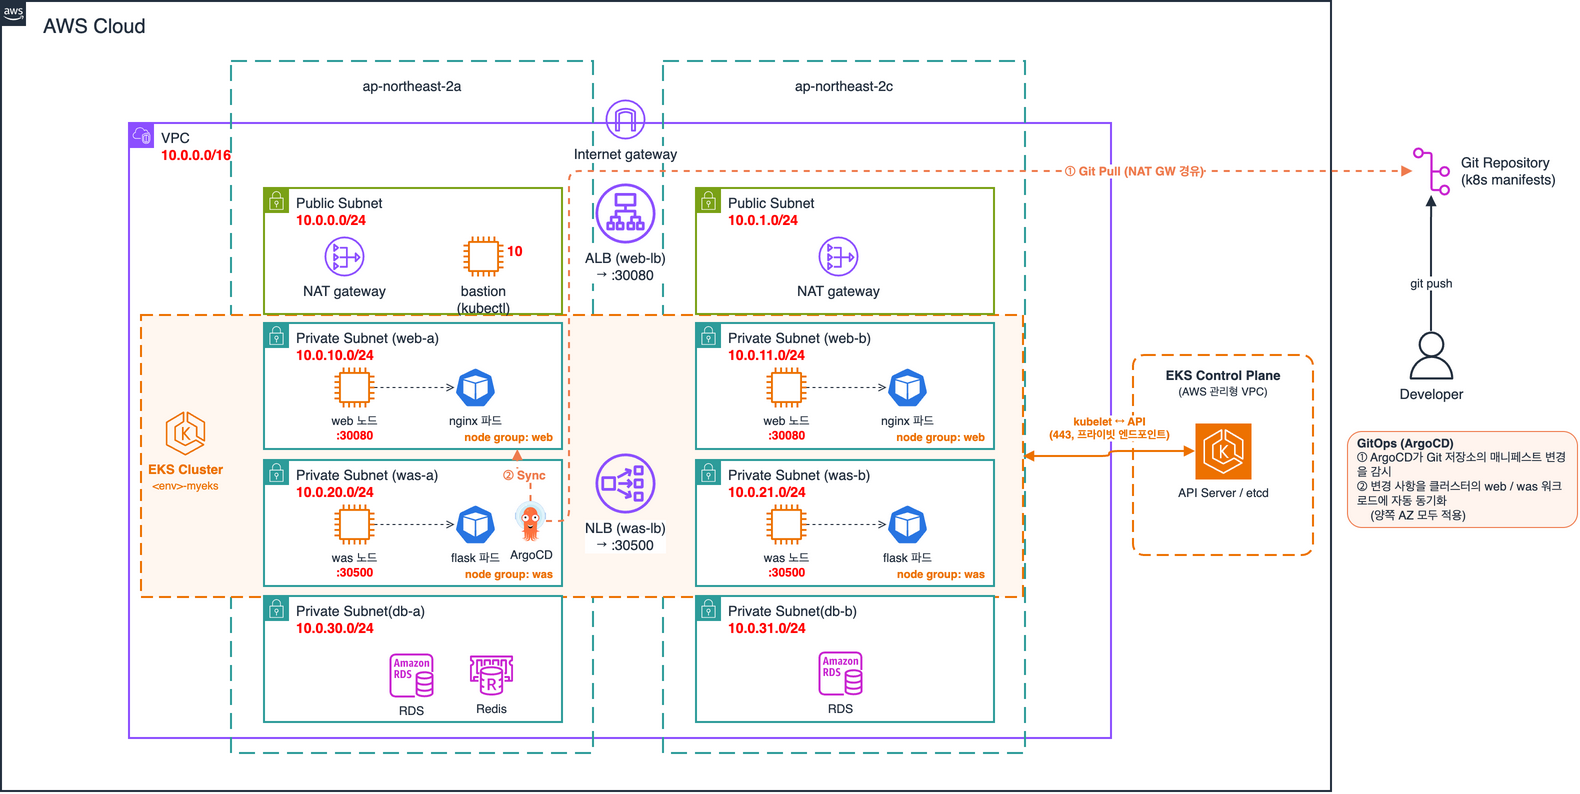
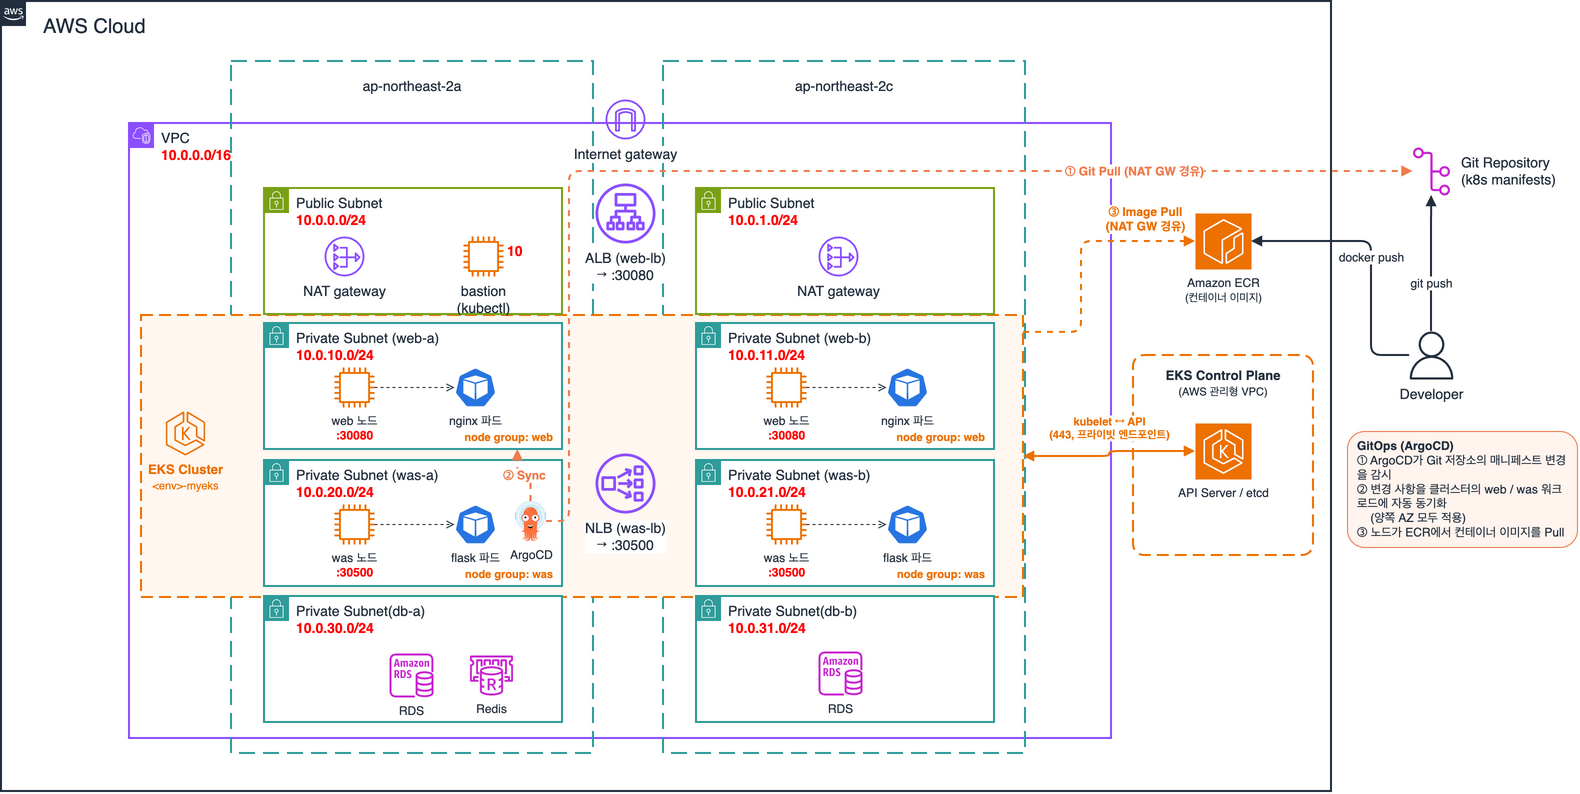
v1.0.4 1. ECR(컨테이너 이미지 저장소) 추가

diff --git a/ch05/5.6/README.md b/ch05/5.6/README.md
@@ -1,12 +1,12 @@
 # 5.6 AWS EKS + Argo CD 기반 3계층(Web-WAS-DB) 구성
 
-5.4(EC2 기반)와 같은 요청 흐름을 유지하면서 web·was 서버를 **Amazon EKS 관리형 노드 그룹**으로 바꾸고, 애플리케이션 배포는 **Argo CD(GitOps)** 로 한다. 테라폼은 인프라와 Argo CD까지만 만들고, web·was 앱은 Git 저장소의 매니페스트(`gitops/`)를 Argo CD가 클러스터에 동기화한다.
+5.4(EC2 기반)와 같은 요청 흐름을 유지하면서 web·was 서버를 **Amazon EKS 관리형 노드 그룹**으로 바꾸고, 애플리케이션 배포는 **Argo CD(GitOps)** 로 한다. 테라폼은 인프라와 Argo CD까지만 만들고, web·was 앱은 Git 저장소의 매니페스트(`gitops/`)를 Argo CD가 클러스터에 동기화한다. web·was 컨테이너 이미지는 **Amazon ECR**(`<env>-web`, `<env>-was`)에 두고 노드가 ECR에서 내려받는다.
 
 같은 코드를 **dev, stg, prod 환경별로** 배포할 수 있다. 환경마다 State를 워크스페이스로 따로 두고, 계정 안에서 고유해야 하는 이름에 `<env>-` 접두사를 붙인다([환경 구분](#환경-구분-dev--stg--prod) 참고). 별도의 사전 인프라(State 버킷, 배포 사용자·역할) 없이 AWS 자격 증명만 있으면 실행할 수 있다.
 
 ![EKS + Argo CD 구성도](images/architecture-eks-argocd.png)
 
-그림 5-6. 실습 구성도 (EKS 클러스터: web·was 노드 그룹, Argo CD가 Git 저장소의 매니페스트를 web·was에 동기화)
+그림 5-6. 실습 구성도 (EKS 클러스터: web·was 노드 그룹, Argo CD가 Git 저장소의 매니페스트를 web·was에 동기화, 노드는 Amazon ECR에서 컨테이너 이미지를 내려받음)
 
 요청 흐름은 다음과 같다. 5.4와 달라진 부분은 서버가 노드 그룹이 되고 대상 그룹이 노드의 NodePort로 보낸다는 점뿐이다.
 
@@ -17,13 +17,13 @@
 ALB web-lb (인터넷 경계, public-subnet-a/b) ── web-tg (HTTP:30080, /healthz)
    │
    ▼
-web 노드 그룹 (web-subnet-a/b, web-sg) :30080 → web(nginx) 파드 2개  NGINX :80 → was.cloud.local:5000
+web 노드 그룹 (web-subnet-a/b, web-sg) :30080 → web(nginx) 파드 2개 (이미지: ECR <env>-web)  NGINX :80 → was.cloud.local:5000
    │
    ▼
 NLB was-lb (내부, was-subnet-a/b, TCP:5000) ── was-tg (TCP:30500)
    │
    ▼
-was 노드 그룹 (was-subnet-a/b, was-sg) :30500 → was(flask) 파드 2개  Flask :5000
+was 노드 그룹 (was-subnet-a/b, was-sg) :30500 → was(flask) 파드 2개 (이미지: ECR <env>-was)  Flask :5000
    ├──▶ db.cloud.local     → RDS MySQL :3306 (db-subnet-a 기본 / db-subnet-b 대기)
    └──▶ redis.cloud.local  → ElastiCache Redis OSS :6379 (db-subnet-a, TLS)
 ```
@@ -36,6 +36,11 @@ Developer ─git push─▶ Git Repository (gitops/: web·was 매니페스트)
                             │ ① Git Pull (was 노드 → NAT 게이트웨이 → IGW)
 Argo CD (argocd 네임스페이스, was-subnet-a의 was 노드)
    └─ ② Sync (자동, prune·selfHeal) ─▶ web·was Deployment / Service (양쪽 AZ)
+
+Developer ─docker push─▶ Amazon ECR <env>-web, <env>-was (리전 서비스, VPC 밖)   scripts/push-images.sh
+                            ▲
+                            │ ③ Image Pull (web·was 노드 → NAT 게이트웨이 → IGW)
+web·was 노드 (kubelet) ─────┘   노드 IAM 역할의 AmazonEC2ContainerRegistryReadOnly로 인증
 
 노드 kubelet ─443─▶ EKS API 프라이빗 엔드포인트 (컨트롤 플레인은 AWS 관리형 VPC)
 내 PC ─SSH─▶ bastion 10.0.0.10 (public-subnet-a) ─kubectl─▶ EKS API (프라이빗 엔드포인트)
@@ -60,12 +65,15 @@ Argo CD (argocd 네임스페이스, was-subnet-a의 was 노드)
 | ArgoCD (was-a) | Helm 차트 `argo-cd`. 모든 파드를 `tier=was` + AZ a 노드에 배치. dex·notifications 끔 | argocd.tf |
 | ① Git Pull (NAT GW 경유) | 노드의 기존 경로(프라이빗 서브넷 → NAT → IGW). 보안 그룹·라우팅 추가 없음 | - |
 | ② Sync | Helm 차트 `argocd-apps`로 Application `web-was` 생성. 자동 동기화(`prune`, `selfHeal`) | argocd.tf |
+| Amazon ECR | 리포지토리 `<env>-web`, `<env>-was` (태그 변경 불가, push 시 스캔, 수명 주기 정책). 첫 apply 때 이미지 빌드·push | ecr.tf, app/, scripts/push-images.sh |
+| docker push | app/<앱>/Dockerfile을 linux/amd64로 빌드해 push. 태그는 gitops/<앱>.yaml의 `image: <앱>:<태그>` | scripts/push-images.sh |
+| ③ Image Pull (NAT GW 경유) | 노드 역할의 `AmazonEC2ContainerRegistryReadOnly`로 인증(`imagePullSecrets` 불필요). Application이 kustomize `images`로 이름 `web`·`was`를 ECR 주소로 바꾼다 | iam.tf, argocd.tf |
 | Git Repository (k8s manifests) | nginx·flask Deployment / Service, NGINX 설정(kustomize) | gitops/ |
 | - | DB·사용자·테이블 생성 Job `db-init` (암호를 Git에 올리지 않도록 테라폼이 관리) | db_init.tf |
 
 테라폼과 Argo CD는 같은 리소스를 함께 관리하지 않는다.
 
-- **테라폼**: 인프라 + Argo CD 설치·Application + Secret·Job `db-init`
+- **테라폼**: 인프라(ECR 포함) + Argo CD 설치·Application + Secret·Job `db-init` + 첫 이미지 push
 - **Argo CD**: web·was Deployment / Service, ConfigMap `web-nginx-<해시>` (gitops/)
 
 설계 메모
@@ -75,6 +83,10 @@ Argo CD (argocd 네임스페이스, was-subnet-a의 was 노드)
 - **노드에 계층 보안 그룹을 붙인다.** 시작 템플릿으로 노드에 `[클러스터 보안 그룹, web-sg | was-sg]`를 지정한다. VPC CNI는 파드 IP를 노드 ENI에 할당하므로 was 파드의 트래픽도 was-sg로 식별되어 mysql-sg·redis-sg 규칙(소스 was-sg, bastion-sg)이 5.4와 똑같이 적용된다.
 - **파드도 `*.cloud.local`을 그대로 쓴다.** CoreDNS가 VPC DNS로 전달하므로 Route 53 프라이빗 호스팅 영역이 조회된다. 학습자료의 Flask 앱(mywas2)과 NGINX 설정을 고치지 않고 사용한다.
 - 노드 IP는 서브넷에서 자동 할당된다(5.4의 고정 IP `.10`은 노드 그룹에서 지정할 수 없다).
+- **컨테이너 이미지는 ECR에 둔다.** was 이미지(app/was/Dockerfile)에 Flask 패키지와 앱 소스(mywas2, 커밋 고정)를 미리 넣어 두었다. 예전처럼 파드가 뜰 때마다 pip install·git clone을 하지 않으므로 바로 시작한다. web 이미지는 `nginx:1.28` 그대로이고, NGINX 설정은 ConfigMap(gitops/default.conf)으로 넣는다.
+- **ECR 주소는 Git에 적지 않는다.** 주소(`<계정 ID>.dkr.ecr.<리전>.amazonaws.com/<env>-web`)는 계정·환경마다 다르다. gitops/에는 `image: web:1.0.0`처럼 이름과 태그만 적고, Application의 kustomize `images`가 이름을 ECR 주소로 바꾼다. 태그는 Git 값이 그대로 쓰이므로 배포는 여전히 GitOps(태그 변경 → push)로 한다.
+- **태그는 바꿀 수 없다(IMMUTABLE).** 같은 태그로 다른 이미지를 덮어쓰면 Argo CD가 변경을 알 수 없으므로 막아 둔다. 앱을 바꾸면 반드시 태그를 올린다.
+- 이미지 Pull은 NAT 게이트웨이를 거친다. 트래픽이 많으면 ECR VPC 엔드포인트(`ecr.api`, `ecr.dkr`, S3 게이트웨이)를 두어 NAT 비용을 줄일 수 있다.
 
 ## 환경 구분 (dev · stg · prod)
 
@@ -97,6 +109,7 @@ Argo CD (argocd 네임스페이스, was-subnet-a의 was 노드)
 | RDS (서브넷 그룹·식별자) | `dev-mysql` |
 | ElastiCache (서브넷 그룹·복제 그룹) | `dev-redis` |
 | 로드 밸런서·대상 그룹 | `dev-web-lb`, `dev-web-tg`, `dev-was-lb`, `dev-was-tg` |
+| ECR 리포지토리 | `dev-web`, `dev-was` |
 
 VPC(`mynet`), 서브넷, 보안 그룹, Route 53 프라이빗 영역(`cloud.local`), 쿠버네티스 리소스는 환경마다 별도 VPC·클러스터에 생기므로 이름을 바꾸지 않았다. 콘솔에서는 `Environment` 태그로 구분한다. 서브넷 CIDR(10.0.0.0/16)과 bastion IP(10.0.0.10)도 환경마다 같다(VPC 간 연결이 없으므로 겹쳐도 된다).
 
@@ -104,7 +117,8 @@ VPC(`mynet`), 서브넷, 보안 그룹, Route 53 프라이빗 영역(`cloud.loca
 
 사전 준비
 
-- AWS CLI 자격 증명: VPC·EKS·IAM·RDS·ElastiCache·ELB·Route 53을 만들 수 있는 권한(예: 관리자). 실습 PC에 aws CLI가 있어야 한다(helm·kubernetes 프로바이더가 `aws eks get-token`으로 인증).
+- AWS CLI 자격 증명: VPC·EKS·IAM·RDS·ElastiCache·ELB·Route 53·ECR을 만들 수 있는 권한(예: 관리자). 실습 PC에 aws CLI가 있어야 한다(helm·kubernetes 프로바이더가 `aws eks get-token`으로 인증).
+- **Docker**(buildx 포함)가 실행 중이어야 한다. `terraform apply`가 web·was 이미지를 빌드해 ECR에 push한다. Apple Silicon Mac에서도 노드에 맞게 linux/amd64로 빌드한다(was 이미지 첫 빌드는 에뮬레이션 때문에 몇 분 걸린다).
 - 키 페어 `mykey`(5.4.2 참고). 실습 PC에 kubectl은 없어도 된다(확인용으로만 사용).
 - **gitops/ 디렉터리를 Git 저장소에 push**해 둔다. Argo CD는 `gitops_repo_url`(기본값 `https://github.com/kshelp/tf.git`)의 `gitops_repo_revision`(`main`) 브랜치, `gitops_repo_path`(`ch05/5.6/gitops`)를 읽는다. 다른 저장소를 쓰면 `terraform.tfvars`에 지정한다. 공개 저장소가 아니면 [주의할 점](#gitops-주의할-점)을 참고한다.
 
@@ -117,7 +131,7 @@ export TF_VAR_env=dev                           # dev | stg | prod (생략하면
 terraform init
 terraform workspace select -or-create $TF_VAR_env   # 환경별 State 분리 (한 환경만 쓰면 생략 가능)
 terraform plan
-terraform apply -auto-approve                   # 약 20~25분 (EKS 클러스터 ~10분, 노드 그룹, RDS)
+terraform apply -auto-approve                   # 약 20~25분 (EKS 클러스터 ~10분, 노드 그룹, RDS, 이미지 빌드·push)
 terraform output
 ```
 
@@ -129,7 +143,7 @@ terraform output
 
 > `admin_cidr`는 bastion SSH와 **EKS API 퍼블릭 엔드포인트** 모두에 적용된다. 테라폼(kubernetes·helm 프로바이더)이 실습 PC에서 클러스터에 접속해 Argo CD와 db-init을 만들므로, 실습 PC의 공인 IP가 바뀌면 `admin_cidr`도 바꿔야 한다.
 
-테라폼은 Job `db-init`이 완료되고 Argo CD 파드가 Ready가 된 뒤 Application을 만든다. web·was 파드는 그 뒤 Argo CD가 배포하므로 `apply`가 끝나고 몇 분(was 파드의 패키지 설치 1~2분 포함) 지나면 서비스가 동작한다.
+테라폼은 Job `db-init`이 완료되고 Argo CD 파드가 Ready가 된 뒤 Application을 만든다. web·was 파드는 그 뒤 Argo CD가 배포하므로 `apply`가 끝나고 1~2분 지나면 서비스가 동작한다. 테라폼은 ECR에 이미지를 push한 뒤에 Application을 만든다.
 
 ## 확인
 
@@ -150,7 +164,12 @@ kubectl version --client
 $(terraform output -raw kubeconfig_command)
 kubectl get nodes -L tier,topology.kubernetes.io/zone
 kubectl get pods -o wide
+kubectl get deploy web was -o jsonpath='{range .items[*]}{.spec.template.spec.containers[0].image}{"\n"}{end}'   # ECR 이미지
 kubectl logs job/db-init
+
+# 5) ECR
+terraform output app_images
+aws ecr describe-images --repository-name ${TF_VAR_env:-dev}-was --query 'imageDetails[].[imageTags[0],imagePushedAt]' --output table
 
 # 4) Argo CD
 kubectl -n argocd get pods -o wide                  # was-subnet-a(AZ a)의 was 노드에 배치
@@ -181,7 +200,7 @@ curl -s $(terraform output -raw web_url)/healthz      # OK
 
 ## 앱 변경 (GitOps)
 
-앱(이미지, 레플리카 수, NGINX 설정, WAS 소스 커밋 등)은 `terraform apply` 없이 **gitops/를 고쳐 push**하면 바뀐다. Argo CD가 최대 `argocd_reconciliation_seconds`(120초) 안에 변경을 감지해 반영한다.
+앱(이미지 태그, 레플리카 수, NGINX 설정 등)은 `terraform apply` 없이 **gitops/를 고쳐 push**하면 바뀐다. Argo CD가 최대 `argocd_reconciliation_seconds`(120초) 안에 변경을 감지해 반영한다.
 
 ```bash
 # 예: web 파드를 3개로
@@ -191,15 +210,29 @@ kubectl -n argocd get application -w               # OutOfSync → Synced
 kubectl get pods -l app=web -o wide
 ```
 
+이미지를 바꿀 때(예: WAS 소스 커밋 변경)는 **ECR에 새 태그로 push한 뒤 gitops/의 태그를 바꿔 push**한다. 태그를 먼저 push하면 이미지가 아직 없어 파드가 `ImagePullBackOff`가 된다(새 파드만 실패하고 기존 파드는 그대로 동작).
+
+```bash
+# 예: was 앱 소스를 다른 커밋으로
+sed -i '' 's/^ARG APP_COMMIT=.*/ARG APP_COMMIT=<새 커밋>/' app/was/Dockerfile
+sed -i '' 's/image: was:1.0.0/image: was:1.0.1/' gitops/was.yaml
+TF_VAR_env=dev scripts/push-images.sh was      # 빌드 → ECR <env>-was:1.0.1 push
+git add app gitops && git commit -m "was 1.0.1" && git push
+kubectl get pods -l app=was -w                 # 롤링 업데이트
+```
+
+같은 gitops/를 여러 환경이 함께 보므로 태그를 올리기 전에 **모든 환경의 ECR에 push**한다(`TF_VAR_env=stg scripts/push-images.sh was` 등). `terraform apply`를 다시 해도 태그가 바뀐 것을 감지해 그 환경의 ECR에 push한다.
+
 `kubectl scale deploy web --replicas=1`처럼 클러스터를 직접 바꾸면 `selfHeal`이 Git 상태로 되돌린다. gitops/에서 리소스를 지우면 `prune`이 클러스터에서도 지운다.
 
 ### GitOps 주의할 점
 
 - **먼저 push**: Application은 Git 저장소를 읽으므로 gitops/가 `gitops_repo_revision` 브랜치에 없으면 동기화가 실패한다(`kubectl -n argocd describe application web-was`로 확인).
+- **이미지 이름**: gitops/의 `image: web:<태그>`, `image: was:<태그>`에서 이름 부분(web, was)은 Application이 ECR 주소로 바꾸므로 그대로 둔다. `push-images.sh`와 ecr.tf도 이 줄에서 태그를 읽는다.
 - **NodePort**: gitops/의 nodePort 값은 Application이 테라폼 변수 값으로 덮어쓴다. 포트를 바꾸려면 gitops/가 아니라 `web_node_port`·`was_node_port` 변수를 바꾸고 `terraform apply` 한다.
 - **비공개 저장소**: Argo CD에 저장소 자격 증명(Secret, 레이블 `argocd.argoproj.io/secret-type=repository`)을 추가로 등록해야 한다.
 - **apply 완료 시점**: 테라폼은 Application 생성까지만 기다린다. web·was 파드가 Ready가 되는지는 `kubectl -n argocd get application`으로 확인한다.
-- **삭제**: Application에 finalizer를 두지 않아 `terraform destroy`가 Argo CD 때문에 멈추지 않는다. Argo CD가 만든 리소스는 클러스터와 함께 삭제되고 AWS 리소스를 만들지 않으므로 남는 것이 없다.
+- **삭제**: Application에 finalizer를 두지 않아 `terraform destroy`가 Argo CD 때문에 멈추지 않는다. Argo CD가 만든 리소스는 클러스터와 함께 삭제되고 AWS 리소스를 만들지 않으므로 남는 것이 없다. ECR 리포지토리는 `force_delete`로 이미지가 있어도 함께 지워진다.
 
 ## 삭제
 
@@ -211,7 +244,7 @@ terraform workspace select $TF_VAR_env
 terraform destroy -auto-approve
 ```
 
-> **비용 주의**: 환경 하나마다 EKS 컨트롤 플레인, t3.medium 노드 4대, NAT 게이트웨이 2개, ALB·NLB, RDS, ElastiCache가 시간당 과금된다. 세 환경을 모두 띄우면 비용도 세 배다. 실습이 끝나면 바로 삭제한다. 비용을 줄이려면 `terraform.tfvars`에 `db_multi_az = false`를 넣는다.
+> **비용 주의**: 환경 하나마다 EKS 컨트롤 플레인, t3.medium 노드 4대, NAT 게이트웨이 2개, ALB·NLB, RDS, ElastiCache가 시간당 과금된다. ECR은 저장 용량(GB·월)만큼 과금된다(수명 주기 정책으로 태그 이미지는 최근 10개만 보관). 세 환경을 모두 띄우면 비용도 세 배다. 실습이 끝나면 바로 삭제한다. 비용을 줄이려면 `terraform.tfvars`에 `db_multi_az = false`를 넣는다.
 
 > **할당량 주의**: 환경마다 NAT용 탄력적 IP를 2개 쓴다. 리전 기본 할당량이 5개이므로 세 환경(6개)을 동시에 띄우려면 Service Quotas에서 할당량을 늘려야 한다.
 
@@ -234,7 +267,7 @@ GitOps는 **Git 저장소를 기준으로 삼아 사람이 PC에서 `terraform a
 
 ```txt
 Git 저장소
-├── infra/            ← 테라폼 (VPC, EKS, RDS, ElastiCache, LB, Route 53)
+├── infra/            ← 테라폼 (VPC, EKS, ECR, RDS, ElastiCache, LB, Route 53)
 │     └─ GitHub Actions: PR → plan, merge → apply
 └── apps/             ← 쿠버네티스 매니페스트 (was, web, db-init)
       └─ Argo CD가 클러스터에서 Git을 감시해 자동으로 동기화
